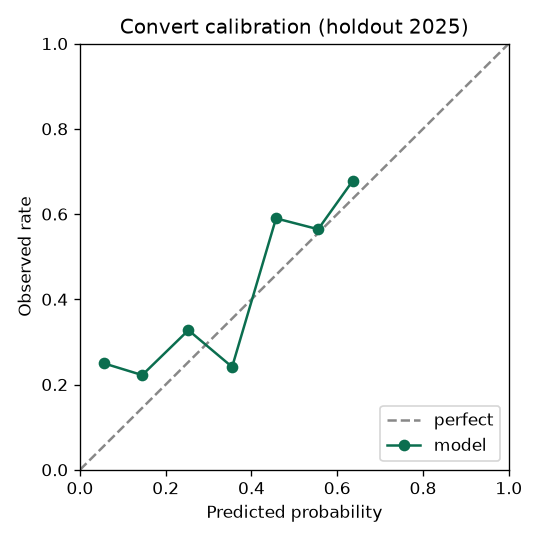
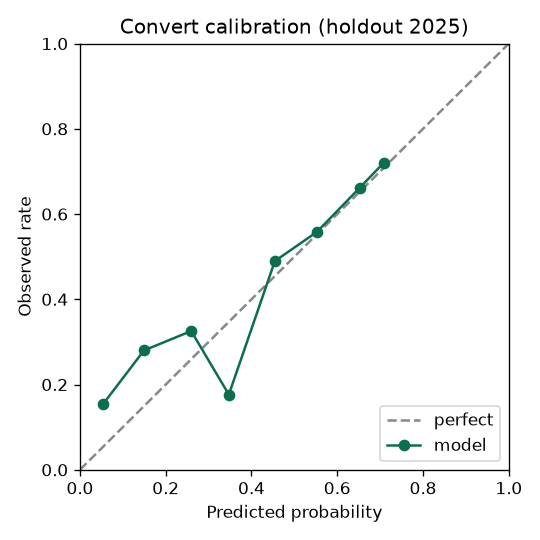
Fix FG logistic calibration and Review polish
Remove class_weight=balanced so FG make probabilities stay calibrated
(holdout Brier ~0.22→~0.11). Add empirical FG guardrail, xyac/fumble
prefix bans, keyed Streamlit presets, calibration thumbnail, and tests.

diff --git a/app.py b/app.py
@@ -179,6 +179,10 @@ def main() -> None:
                 "emp_vs_model_mae": metrics.get("empirical_vs_model_mae_convert"),
             }
         )
+        cal_path = art / "calibration_convert.png"
+        if cal_path.exists():
+            st.caption("Convert calibration (holdout)")
+            st.image(str(cal_path), use_container_width=True)
         use_model = st.toggle("Use logistic model (off = empirical only)", value=True)
         st.markdown("---")
         st.markdown(
@@ -187,18 +191,37 @@ def main() -> None:
             unsafe_allow_html=True,
         )
 
-    # Defaults: own 35, 4th & 2, tied, Q2 mid
-    if "preset_state" not in st.session_state:
-        st.session_state.preset_state = None
+    # Defaults: own 35, 4th & 2, tied, Q2 mid — keyed widgets so presets apply reliably.
+    _default = GameState()
+    _init = {
+        "yl": int(_default.yardline_100),
+        "ytg": int(_default.ydstogo),
+        "score_diff": int(_default.score_differential),
+        "qtr": int(_default.qtr),
+        "gsr": int(_default.game_seconds_remaining),
+        "roof": _default.roof,
+        "off_to": int(_default.posteam_timeouts_remaining),
+        "def_to": int(_default.defteam_timeouts_remaining),
+    }
+    for k, v in _init.items():
+        if k not in st.session_state:
+            st.session_state[k] = v
+
+    def _apply_preset(gs: GameState) -> None:
+        st.session_state["yl"] = int(gs.yardline_100)
+        st.session_state["ytg"] = int(gs.ydstogo)
+        st.session_state["score_diff"] = int(gs.score_differential)
+        st.session_state["qtr"] = int(gs.qtr)
+        st.session_state["gsr"] = int(gs.game_seconds_remaining)
+        st.session_state["roof"] = gs.roof if gs.roof in ["outdoors", "dome", "open", "closed"] else "outdoors"
+        st.session_state["off_to"] = int(gs.posteam_timeouts_remaining)
+        st.session_state["def_to"] = int(gs.defteam_timeouts_remaining)
 
     st.markdown("#### Extreme-situation presets")
     cols = st.columns(len(SANITY_CASES))
     for col, case in zip(cols, SANITY_CASES):
         if col.button(case.id, help=case.label, use_container_width=True):
-            st.session_state.preset_state = case.state
-
-    preset = st.session_state.preset_state
-    defaults = preset or GameState()
+            _apply_preset(case.state)
 
     c1, c2, c3 = st.columns(3)
     with c1:
@@ -206,38 +229,32 @@ def main() -> None:
             "Yards to opponent end zone (`yardline_100`)",
             1,
             99,
-            int(defaults.yardline_100),
+            key="yl",
             help="Own 35 ≈ 65; opponent 1 ≈ 1.",
         )
-        ydstogo = st.slider("Yards to go", 1, 20, int(defaults.ydstogo))
+        ydstogo = st.slider("Yards to go", 1, 20, key="ytg")
         score_differential = st.number_input(
             "Score differential (posteam − defteam)",
             -28,
             28,
-            int(defaults.score_differential),
+            key="score_diff",
         )
     with c2:
-        qtr = st.selectbox("Quarter", [1, 2, 3, 4], index=int(defaults.qtr) - 1)
+        qtr = st.selectbox("Quarter", [1, 2, 3, 4], key="qtr")
         game_seconds_remaining = st.slider(
             "Game seconds remaining",
             0,
             3600,
-            int(defaults.game_seconds_remaining),
+            key="gsr",
         )
         roof = st.selectbox(
             "Roof",
             ["outdoors", "dome", "open", "closed"],
-            index=["outdoors", "dome", "open", "closed"].index(
-                defaults.roof if defaults.roof in ["outdoors", "dome", "open", "closed"] else "outdoors"
-            ),
+            key="roof",
         )
     with c3:
-        posteam_to = st.slider(
-            "Offense timeouts", 0, 3, int(defaults.posteam_timeouts_remaining)
-        )
-        defteam_to = st.slider(
-            "Defense timeouts", 0, 3, int(defaults.defteam_timeouts_remaining)
-        )
+        posteam_to = st.slider("Offense timeouts", 0, 3, key="off_to")
+        defteam_to = st.slider("Defense timeouts", 0, 3, key="def_to")
         st.caption("Goal-to-go is inferred when yardline ≤ yards to go.")
 
     state = GameState(

diff --git a/src/nfl_ev/model.py b/src/nfl_ev/model.py
@@ -43,7 +43,14 @@ def _align_columns(X: pd.DataFrame, columns: list[str]) -> pd.DataFrame:
     return out[columns]
 
 
-def make_logit_pipeline() -> Pipeline:
+def make_logit_pipeline(*, class_weight: str | None = None) -> Pipeline:
+    """
+    Logistic with optional class_weight.
+
+    Default is None: calibrated probabilities matter for EV. Using
+    class_weight='balanced' on FG (~86% make) collapsed p_make toward 0.5
+    and systematically undervalued field goals in the product EV.
+    """
     return Pipeline(
         [
             ("scaler", StandardScaler()),
@@ -51,7 +58,7 @@ def make_logit_pipeline() -> Pipeline:
                 "clf",
                 LogisticRegression(
                     max_iter=2000,
-                    class_weight="balanced",
+                    class_weight=class_weight,
                     solver="lbfgs",
                 ),
             ),
@@ -73,6 +80,8 @@ def train_binary_logit(
     test_df: pd.DataFrame,
     label_fn,
     name: str,
+    *,
+    class_weight: str | None = None,
 ) -> dict[str, Any]:
     X_tr, y_tr, _ = _prepare_xy(train_df, label_fn)
     X_te, y_te, te_idx = _prepare_xy(test_df, label_fn)
@@ -80,7 +89,7 @@ def train_binary_logit(
     columns = list(X_tr.columns)
     X_te = _align_columns(X_te, columns)
 
-    pipe = make_logit_pipeline()
+    pipe = make_logit_pipeline(class_weight=class_weight)
     pipe.fit(X_tr[columns], y_tr)
 
     metrics: dict[str, Any] = {"name": name, "n_train": int(len(y_tr)), "n_test": int(len(y_te))}

diff --git a/src/nfl_ev/features.py b/src/nfl_ev/features.py
@@ -51,10 +51,18 @@ BANNED_FEATURES: list[str] = [
     "penalty",
     "cp",
     "cpoe",
+    "xyac_epa",
+    "xyac_mean_yardage",
+    "xyac_median_yardage",
+    "xyac_success",
+    "xyac_fd",
     "fg_prob",
     "td_prob",
     "safety_prob",
 ]
+
+# Prefix families treated as banned (post-play / model-on-model).
+BANNED_PREFIXES: tuple[str, ...] = ("xyac_", "fumble_")
 
 # Labels / filters (not model features).
 LABEL_COLUMNS: list[str] = [
@@ -76,10 +84,15 @@ MIN_CELL_N = 30
 
 
 def assert_no_banned(columns: Iterable[str]) -> None:
-    """Raise if any banned column appears in a feature matrix column set."""
-    banned_hit = sorted(set(columns) & set(BANNED_FEATURES))
-    if banned_hit:
-        raise ValueError(f"Banned leakage columns in feature matrix: {banned_hit}")
+    """Raise if any banned column or banned prefix appears in a feature matrix."""
+    cols = list(columns)
+    banned_hit = sorted(set(cols) & set(BANNED_FEATURES))
+    prefix_hit = sorted(
+        {c for c in cols if any(c.startswith(p) or c == p.rstrip("_") for p in BANNED_PREFIXES)}
+    )
+    hits = sorted(set(banned_hit) | set(prefix_hit))
+    if hits:
+        raise ValueError(f"Banned leakage columns in feature matrix: {hits}")
 
 
 def feature_matrix(

diff --git a/tests/test_features_banned.py b/tests/test_features_banned.py
@@ -11,7 +11,7 @@ import pytest
 ROOT = Path(__file__).resolve().parents[1]
 sys.path.insert(0, str(ROOT / "src"))
 
-from nfl_ev.features import BANNED_FEATURES, assert_no_banned, feature_matrix
+from nfl_ev.features import BANNED_FEATURES, BANNED_PREFIXES, assert_no_banned, feature_matrix
 
 
 def test_banned_list_nonempty():
@@ -19,6 +19,9 @@ def test_banned_list_nonempty():
     assert "wp" in BANNED_FEATURES
     assert "first_down" in BANNED_FEATURES
     assert "fg_prob" in BANNED_FEATURES
+    assert "xyac_epa" in BANNED_FEATURES
+    assert "xyac_" in BANNED_PREFIXES
+    assert "fumble_" in BANNED_PREFIXES
 
 
 def test_feature_matrix_excludes_banned():
@@ -49,3 +52,8 @@ def test_feature_matrix_excludes_banned():
 def test_assert_no_banned_raises():
     with pytest.raises(ValueError, match="Banned"):
         assert_no_banned(["yardline_100", "epa"])
+
+
+def test_assert_no_banned_xyac_prefix():
+    with pytest.raises(ValueError, match="xyac"):
+        assert_no_banned(["yardline_100", "xyac_mean_yardage"])

diff --git a/tests/test_ev_sanity.py b/tests/test_ev_sanity.py
@@ -54,3 +54,14 @@ def test_s1_not_go_with_huge_delta(engine):
     results = {r["id"]: r for r in run_sanity_suite(engine)}
     r = results["S1"]
     assert not (r["recommendation"] == "go" and r["delta_ev"] > 1.5)
+
+
+def test_fg_make_near_empirical_in_range(engine):
+    """FG logistic must stay near empirical make rates in typical kick range (P0)."""
+    from nfl_ev.ev import GameState
+
+    # Opp ~25 → ~42-yard kick; thick empirical cells exist.
+    r = engine.score(GameState(yardline_100=25, ydstogo=5, qtr=2, game_seconds_remaining=1800))
+    assert r.sample_n_fg >= 30
+    assert abs(r.p_make - r.p_make_baseline) < 0.20
+    assert r.p_make > 0.55  # must not collapse toward coin-flip / balanced-weight failure

diff --git a/src/nfl_ev/ev.py b/src/nfl_ev/ev.py
@@ -96,6 +96,10 @@ class EvEngine:
                 p_conv = 0.5 * p_conv + 0.5 * p_conv_b
             if back_fg or n_fg < MIN_CELL_N:
                 p_make = 0.5 * p_make + 0.5 * p_make_b
+            # Guardrail: never let FG logistic drift far below a thick empirical
+            # distance cell (historical failure mode when class_weight=balanced).
+            if n_fg >= MIN_CELL_N and not back_fg and p_make + 0.15 < p_make_b:
+                p_make = 0.5 * p_make + 0.5 * p_make_b
             # Model was not trained on absurd distances — hard-cap long FG probs.
             if kick_dist >= 70:
                 p_make = min(p_make, 0.01)

diff --git a/README.md b/README.md
@@ -48,15 +48,15 @@ Committed `artifacts/` let you open the Streamlit app and run sanity tests witho
 
 | Model | Log-loss | Brier | Notes |
 | --- | --- | --- | --- |
-| Convert (logistic) | **0.653** | **0.229** | Emp. vs model bucket MAE ≈ **0.055** |
-| FG make (logistic) | **0.633** | **0.224** | Long kicks capped in product EV |
+| Convert (logistic) | **0.649** | **0.228** | Emp. vs model bucket MAE ≈ **0.056** |
+| FG make (logistic) | **0.359** | **0.110** | No `class_weight='balanced'` (keeps probs calibrated); long kicks capped in product EV |
 
 Calibration (reliability diagrams written by `train_models.py`):
 
 ![Convert calibration](artifacts/calibration_convert.png)
 ![FG calibration](artifacts/calibration_fg.png)
 
-**Baseline globals (train seasons):** convert ≈ see `artifacts/metrics.json` / conversion table; FG make league rate ≈ 0.86 on attempted kicks (dominated by shorter tries).
+**Baseline globals (train seasons):** convert ≈ **0.54**; FG make league rate ≈ **0.86** on attempted kicks (dominated by shorter tries). See `artifacts/metrics.json`.
 
 ## Where it fails (error slices)
 
@@ -64,7 +64,7 @@ Holdout convert slices (yardline thirds × ydstogo) show the usual sports-analyt
 
 1. **Short yardage is better calibrated than long** — midfield 4th & 6+ is sparse and noisy; Brier rises when observed conversion is rare.
 2. **Opponent-territory long-yardage go attempts** are the worst convert slice (small N, model under-predicts opportunistic conversions).
-3. **FG logistic under-predicts make rate on “own/mid” attempts that are actually short kicks** after the distance transform — the empirical distance table is the safer display baseline for long attempts; the app blends toward it when cells are thin.
+3. **Long / sparse FG cells** still need the empirical distance table + hard caps (≥65 / ≥70 yards). Mid-range FG logistic is now calibrated (Review fixed a `class_weight='balanced'` collapse); the app still blends toward empirical when a thick cell’s model p is badly low.
 
 Sanity suite **S1–S5** (own-territory punt, goal-line go, short-yardage competitive, long-yardage anti-go, late trailing go vs punt) is enforced in `tests/test_ev_sanity.py`.
 

diff --git a/docs/decisions.md b/docs/decisions.md
@@ -47,6 +47,8 @@ At decision time: **`kick_distance ≈ yardline_100 + 17`** (LOS to uprights rul
 
 **Long-kick guardrail:** attempts with proxy distance ≥65 / ≥70 yards are hard-capped to ~8% / ~1% make probability. Sparse 60+ yard empirical cells back off toward near-zero — **not** the league-wide make rate (~86%), which is dominated by short kicks and would wrongly recommend FG from own territory.
 
+**FG logistic calibration (Review fix):** do **not** train FG (or convert) with `class_weight='balanced'`. On ~86% make rate that setting collapsed `p_make` toward ~0.5 and systematically undervalued FG in the EV console. Product also blends toward the empirical distance table when a thick cell’s model p is >15pp low.
+
 ## 5. What AI suggested that was rejected
 
 | Suggestion | Rejected because |

diff --git a/docs/build-log.md b/docs/build-log.md
@@ -13,6 +13,11 @@ AI-assisted iterate log. **Human owns metrics, cut list, and EV convention** (`d
 7. **Streamlit** — Single-page console: controls, presets, recommendation + ΔEV, Plotly bars, caveats, sidebar metrics.
 8. **Polish** — Interview README, decisions (leaky rejects), demo screenshots/GIF to Project media store.
 
+## Review polish (Review Agent 3)
+
+- **P0:** removed `class_weight='balanced'` from logistic training — FG holdout Brier ~0.22→~0.11; mid-range `p_make` no longer ~35% on 47-yard kicks.
+- Added FG empirical-agreement guardrail + pytest; `xyac_*` / `fumble_*` prefix bans; Streamlit preset keys; sidebar calibration thumbnail.
+
 ## AI role
 
 - Accelerated boilerplate (download retries, Streamlit layout CSS, test stubs).
